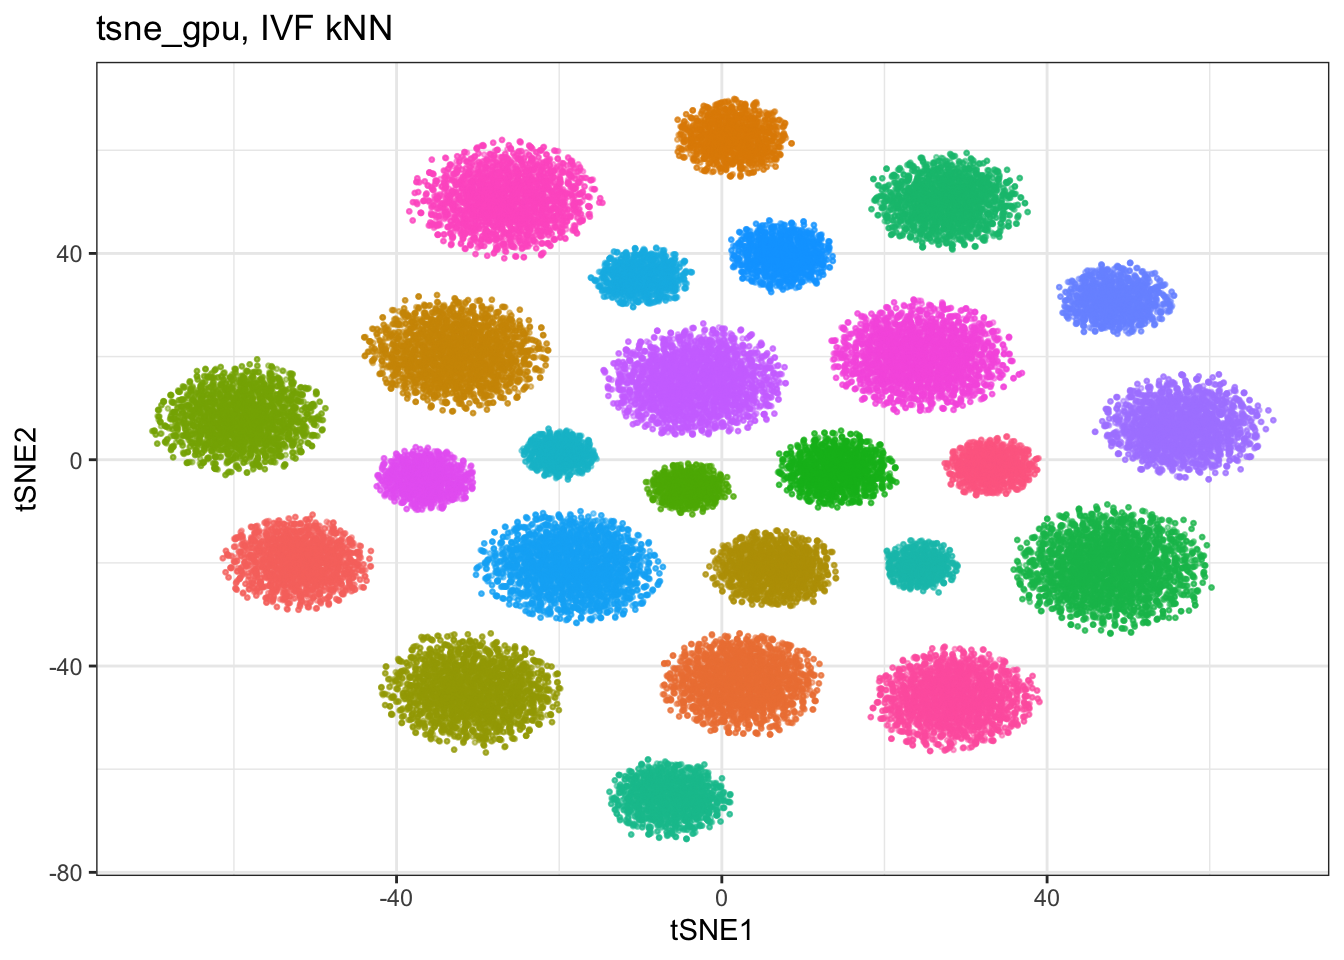
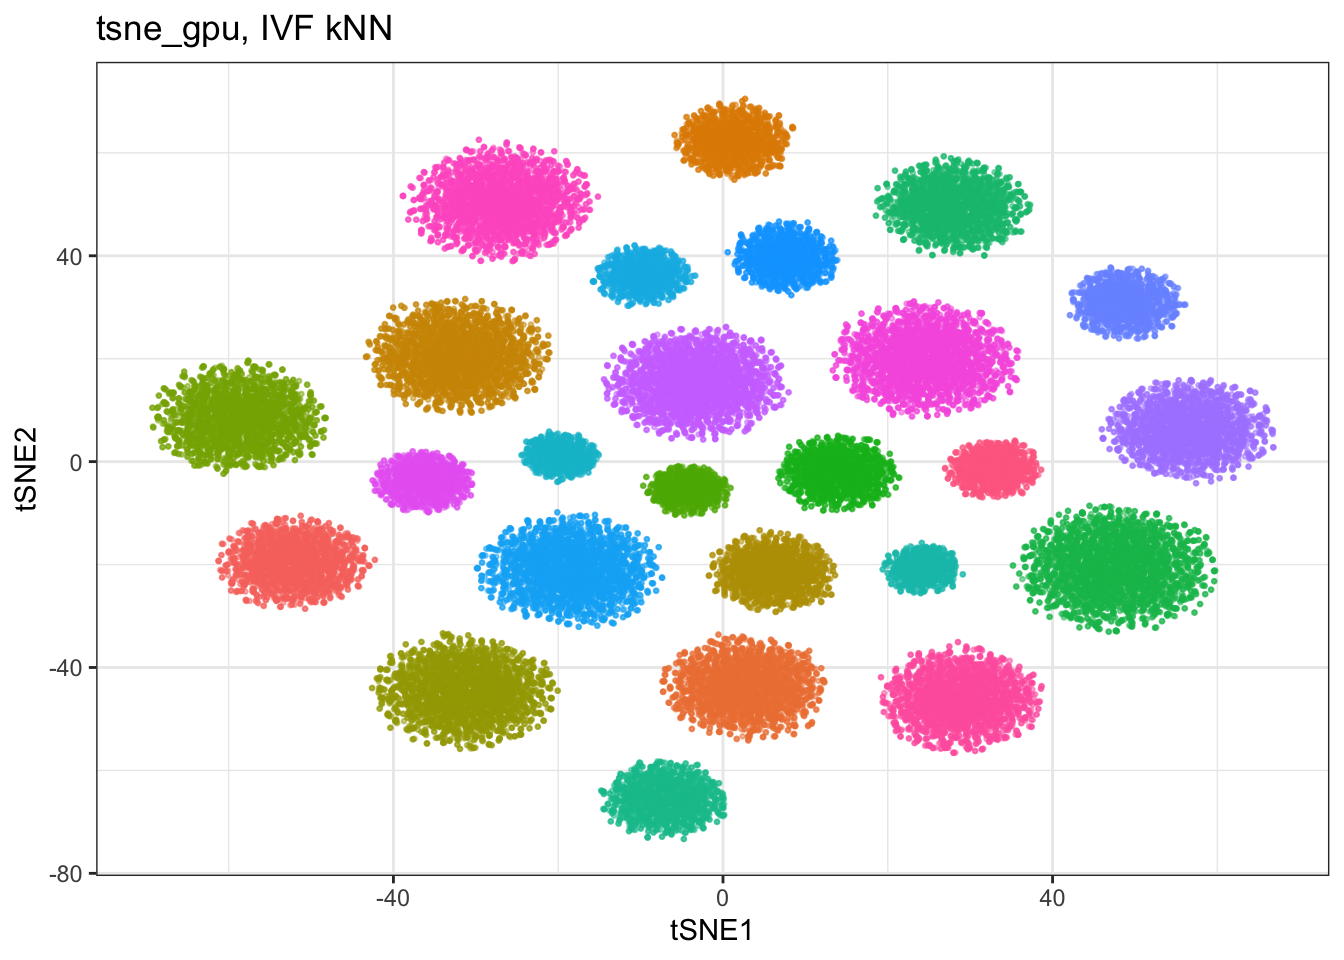
feat: wire the quick-and-dirty Barnes-Hut tSNE optimiser into tsne_gpu

diff --git a/src/rust/src/lib.rs b/src/rust/src/lib.rs
@@ -977,17 +977,19 @@ fn rs_umap_from_knn_gpu(
 /// @description
 /// `r lifecycle::badge("experimental")`
 /// Wraps the tSNE implementation in manifolds-rs. The kNN search runs on the
-/// GPU. `"fft_3k_gpu"` runs the optimiser on the GPU as well; `"bh"`, `"fft"`
-/// and `"fft_3k"` keep it on the CPU.
+/// GPU. `"fft_3k_gpu"` runs the optimiser on the GPU as well; `"bh"`,
+/// `"bh_qd"`, `"fft"` and `"fft_3k"` keep it on the CPU.
 ///
 /// @param embd Numerical matrix. The data to use to generate the embeddings.
 /// Should be of dimensions samples x features.
 /// @param n_dim Integer. Number of tSNE dimensions to return. Needs to be two,
 /// others are not supported.
 /// @param perplexity Numeric. The tSNE perplexity parameter.
-/// @param approx_type String. One of `c("fft_3k_gpu", "bh", "fft", "fft_3k")`.
-/// Which repulsive-force approximation to use. `"fft"` and `"fft_3k"` need
-/// FFTW and are not available on Windows.
+/// @param approx_type String. One of
+/// `c("fft_3k_gpu", "bh", "bh_qd", "fft", "fft_3k")`. Which repulsive-force
+/// approximation to use; `"bh_qd"` is the depth-capped quick-and-dirty
+/// Barnes-Hut. `"fft"` and `"fft_3k"` need FFTW and are not available on
+/// Windows.
 /// @param tsne_params Named list. List that contains all of the key parameters
 /// for the tSNE generation.
 /// @param seed Integer. Seed for reproducibility.
@@ -1067,7 +1069,8 @@ fn rs_tsne_gpu(
 /// @description
 /// `r lifecycle::badge("experimental")`
 /// Wraps the tSNE implementation in manifolds-rs. `"fft_3k_gpu"` runs the
-/// optimiser on the GPU; `"bh"`, `"fft"` and `"fft_3k"` keep it on the CPU.
+/// optimiser on the GPU; `"bh"`, `"bh_qd"`, `"fft"` and `"fft_3k"` keep it on
+/// the CPU.
 /// This version takes a pre-computed kNN graph, please see
 /// [new_nearest_neighbour()].
 ///
@@ -1077,9 +1080,11 @@ fn rs_tsne_gpu(
 /// @param n_dim Integer. Number of tSNE dimensions to return. Needs to be two,
 /// others are not supported.
 /// @param perplexity Numeric. The tSNE perplexity parameter.
-/// @param approx_type String. One of `c("fft_3k_gpu", "bh", "fft", "fft_3k")`.
-/// Which repulsive-force approximation to use. `"fft"` and `"fft_3k"` need
-/// FFTW and are not available on Windows.
+/// @param approx_type String. One of
+/// `c("fft_3k_gpu", "bh", "bh_qd", "fft", "fft_3k")`. Which repulsive-force
+/// approximation to use; `"bh_qd"` is the depth-capped quick-and-dirty
+/// Barnes-Hut. `"fft"` and `"fft_3k"` need FFTW and are not available on
+/// Windows.
 /// @param tsne_params Named list. List that contains all of the key parameters
 /// for the tSNE generation.
 /// @param seed Integer. Seed for reproducibility.

diff --git a/src/rust/src/embeddings/tsne_gpu.rs b/src/rust/src/embeddings/tsne_gpu.rs
@@ -85,6 +85,11 @@ where
         .and_then(|v| v.as_integer())
         .unwrap_or(3) as usize;
 
+    let max_depth = optim_params
+        .get("max_depth")
+        .and_then(|v| v.as_integer())
+        .unwrap_or(7) as usize;
+
     Ok(TsneOptimParams {
         n_epochs,
         lr,
@@ -93,6 +98,7 @@ where
         late_exag_factor,
         theta,
         n_interp_points,
+        max_depth,
     })
 }
 

diff --git a/NEWS.md b/NEWS.md
@@ -1,3 +1,13 @@
+# bixverse.gpu 0.3.6
+
+## Features
+
+* Quick-and-dirty Barnes-Hut tSNE optimiser from
+  [qdtsne](https://github.com/libscran/qdtsne) wired into `tsne_gpu()` and
+  `tsne_gpu_sc()` via `approx_type = "bh_qd"`. Tree depth is set with
+  `max_depth` in `params_tsne_gpu()`. Runs on the CPU, like `"bh"`.
+* Bumped `manifolds-rs` to 0.6.0 and `ann-search-rs` to 0.9.3.
+
 # bixverse.gpu 0.3.5
 
 ## Features
